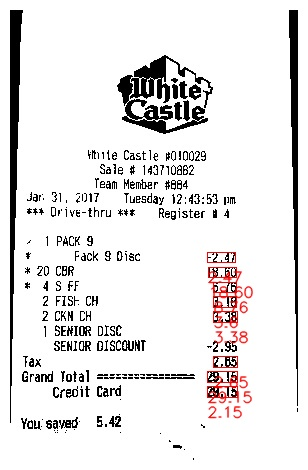
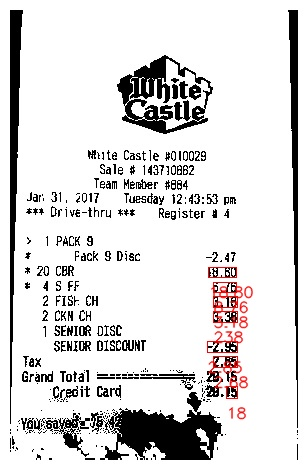
condensed full receipt scanning into one executable file, finds and marks total cost

diff --git a/src/receipt-scanner/receipt-payment.py b/src/receipt-scanner/receipt-payment.py
@@ -1,0 +1,187 @@
+#!/usr/bin/env python3
+
+"""
+
+Condenses preprocessing and OCR into one script
+-just input path to image
+-will return the total
+
+"""
+import cv2
+from matplotlib import pyplot as plt
+import numpy as np
+from PIL import Image
+import sys
+import pytesseract
+from pytesseract import Output
+
+#converts colored picture to gray_scale
+def gray_scale(image):
+    return cv2.cvtColor(image, cv2.COLOR_BGR2GRAY)
+
+#convert from grayscale to binary
+def binarize(image):
+    thresh, im_bw = cv2.threshold(image, 160, 255, cv2.THRESH_BINARY)
+    return im_bw
+
+#reduce noise from image
+def rem_noise(image):
+    kernel = np.ones((1,1), np.uint8)
+    image = cv2.dilate(image, kernel, iterations=1)
+    kernel = np.ones((1,1), np.uint8)
+    image = cv2.erode(image, kernel, iterations=1) #
+    image = cv2.morphologyEx(image, cv2.MORPH_CLOSE, kernel)
+    image = cv2.medianBlur(image, 3)
+    return(image)
+
+#removes broders from image
+def remove_borders(image):
+    contours, hierarchy = cv2.findContours(image, cv2.RETR_EXTERNAL, cv2.CHAIN_APPROX_SIMPLE)    #TODO: look into
+    cntSorted = sorted(contours, key=lambda x:cv2.contourArea(x))
+    cnt = cntSorted[-1]
+    x,y,w,h = cv2.boundingRect(cnt)
+    crop = image[y:y+h, x:x+w]
+    return (crop)
+
+#adds border to image (so text isn't on edge)
+def add_borders(image):
+    color = [255,255,255]
+    top,bottom,left,right = [10]*4
+    add_borders = cv2.copyMakeBorder(image, top, bottom, left, right, cv2.BORDER_CONSTANT, value=color)
+    return add_borders
+
+#used to erode image - not used in this version
+def thin_font(image):
+    image = cv2.bitwise_not(image)
+    kernel = np.ones((2,1), np.uint8)
+    image = cv2.erode(image, kernel, iterations=1)
+    image = cv2.bitwise_not(image)
+    return(image)
+
+#used to dilate image - not used in this version
+def thick_font(image):
+    image = cv2.bitwise_not(image)
+    kernel = np.ones((2,1), np.uint8)
+    image = cv2.dilate(image, kernel, iterations=2)
+    image = cv2.bitwise_not(image)
+    return(image)
+
+def rotate(image):
+    def getSkewAngle(cvImage) -> float:
+        # Prep image, copy, convert to gray scale, blur, and threshold
+        newImage = cvImage.copy()
+        gray = cv2.cvtColor(newImage, cv2.COLOR_BGR2GRAY)
+        blur = cv2.GaussianBlur(gray, (9, 9), 0)
+        thresh = cv2.threshold(blur, 0, 255, cv2.THRESH_BINARY_INV + cv2.THRESH_OTSU)[1]
+
+        # Apply dilate to merge text into meaningful lines/paragraphs.
+        # Use larger kernel on X axis to merge characters into single line, cancelling out any spaces.
+        # But use smaller kernel on Y axis to separate between different blocks of text
+        kernel = cv2.getStructuringElement(cv2.MORPH_RECT, (30, 5))
+        dilate = cv2.dilate(thresh, kernel, iterations=2)
+
+        # Find all contours
+        contours, hierarchy = cv2.findContours(dilate, cv2.RETR_LIST, cv2.CHAIN_APPROX_SIMPLE)
+        contours = sorted(contours, key = cv2.contourArea, reverse = True)
+        for c in contours:
+            rect = cv2.boundingRect(c)
+            x,y,w,h = rect
+            cv2.rectangle(newImage,(x,y),(x+w,y+h),(0,255,0),2)
+
+        # Find largest contour and surround in min area box
+        largestContour = contours[0]
+        print (len(contours))
+        minAreaRect = cv2.minAreaRect(largestContour)
+        cv2.imwrite("temp/boxes.jpg", newImage)
+        # Determine the angle. Convert it to the value that was originally used to obtain skewed image
+        angle = minAreaRect[-1]
+        if angle < -45:
+            angle = 90 + angle
+        return -1.0 * angle
+    
+    # Rotate the image around its center
+    def rotateImage(cvImage, angle: float):
+        newImage = cvImage.copy()
+        (h, w) = newImage.shape[:2]
+        center = (w // 2, h // 2)
+        M = cv2.getRotationMatrix2D(center, angle, 1.0)
+        newImage = cv2.warpAffine(newImage, M, (w, h), flags=cv2.INTER_CUBIC, borderMode=cv2.BORDER_REPLICATE)
+        return newImage
+    
+    angle = getSkewAngle(image)
+    return rotateImage(image, -1.0 * angle)
+
+def get_numbers():
+    myconfig = r"--psm 11 --oem 3 tessedit_char_whitelist=0123456789 -c tessedit_char_whitelist=0123456789."
+
+    image_path = "temp/final.jpg"
+    img = cv2.imread(image_path)
+    height, width, _ = img.shape
+
+    data = pytesseract.image_to_data(img, config = myconfig, output_type = Output.DICT)
+    return data
+
+""" AUXILLIARY FUNCTIONS (FOR TESTING)"""
+#basic function to display picture (for notebook)
+def display(im_path):
+    dpi = 80
+    im = Image.open(im_path)
+    im_data = Image.open(im_path).convert("L")
+
+    # Create a figure of the right size with one axes that takes up the full figure
+    fig = plt.figure()
+    ax = fig.add_axes([0, 0, 1, 1])
+
+    # Hide spines, ticks, etc.
+    ax.axis('off')
+
+    # Display the image.
+    plt.imshow(im_data, cmap="gray", vmin=0, vmax=255)
+    plt.show()
+
+""" MAIN"""
+def main():
+    #checks the parameters
+    argc = len(sys.argv)
+    if (argc != 2):
+        sys.stderr.write("Error: invalid number of parameters, should be one")
+        exit(1)
+    img = cv2.imread(sys.argv[1])
+    if img is None:
+        sys.stderr.write("Error: invalid parameter, image could not be found")
+        exit(1)
+    
+    #basic preprocessing
+    gray = gray_scale(img)
+    im_bw = binarize(gray)
+    # rotated = rotate(im_bw)
+    no_borders = remove_borders(im_bw)
+    padded = add_borders(no_borders)
+    cv2.imwrite("temp/final.jpg", padded)
+
+    #OCR
+    data = get_numbers()
+    img = cv2.imread("temp/final.jpg")
+    size = len(data['text'])
+    max_val = 0.0
+    max_ind = 0
+
+    #goes through possible numbers and identifies max
+    for i in range (size):
+        if float(data['conf'][i]) > 20:
+            if float(data['text'][i]) > max_val:
+                max_val = float(data['text'][i])
+                max_ind = i
+
+    (x, y, width, height) = (data['left'][max_ind], data['top'][max_ind], data['width'][max_ind], data['height'][max_ind])
+    img = cv2.rectangle(img, (x,y), (x+width, y+height), (0,0,255), 1)
+    img = cv2.putText(img, data['text'][max_ind], (x, y+height+20), cv2.FONT_HERSHEY_SIMPLEX, 0.5, (0, 0, 255), 1, cv2.LINE_AA)
+
+    cv2.imwrite("results/final.jpg", img)
+    cv2.imshow("img", img)
+    cv2.waitKey(0)
+
+    return max_val
+
+if __name__ == "__main__":
+    main()

diff --git a/src/receipt-scanner/ocr.py b/src/receipt-scanner/ocr.py
@@ -1,3 +1,6 @@
+#!/usr/bin/env python3
+# coding: utf-8
+
 """
 initializes our imports
 and defines helper functions

diff --git a/src/receipt-scanner/preprocessing.py b/src/receipt-scanner/preprocessing.py
@@ -1,4 +1,4 @@
-#!/usr/bin/env python
+#!/usr/bin/env python3
 # coding: utf-8
 
 # In[1]:
